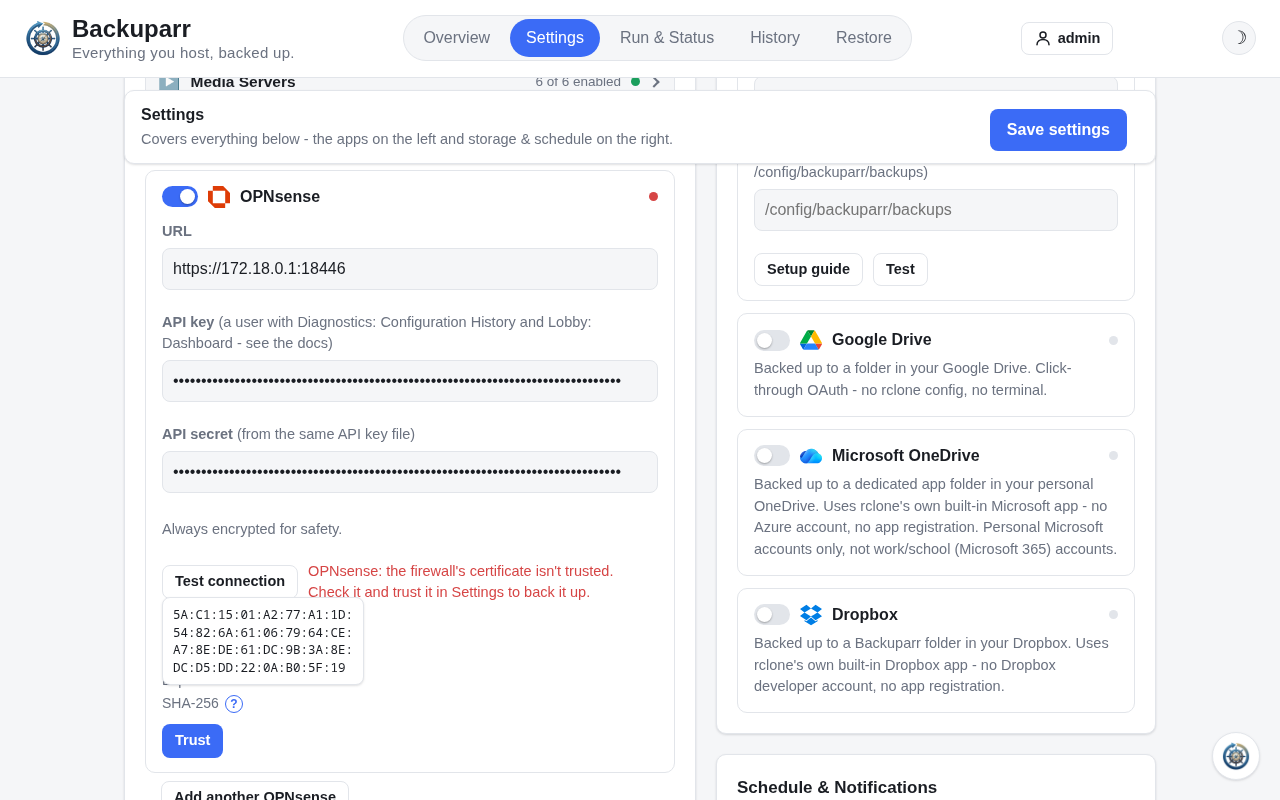
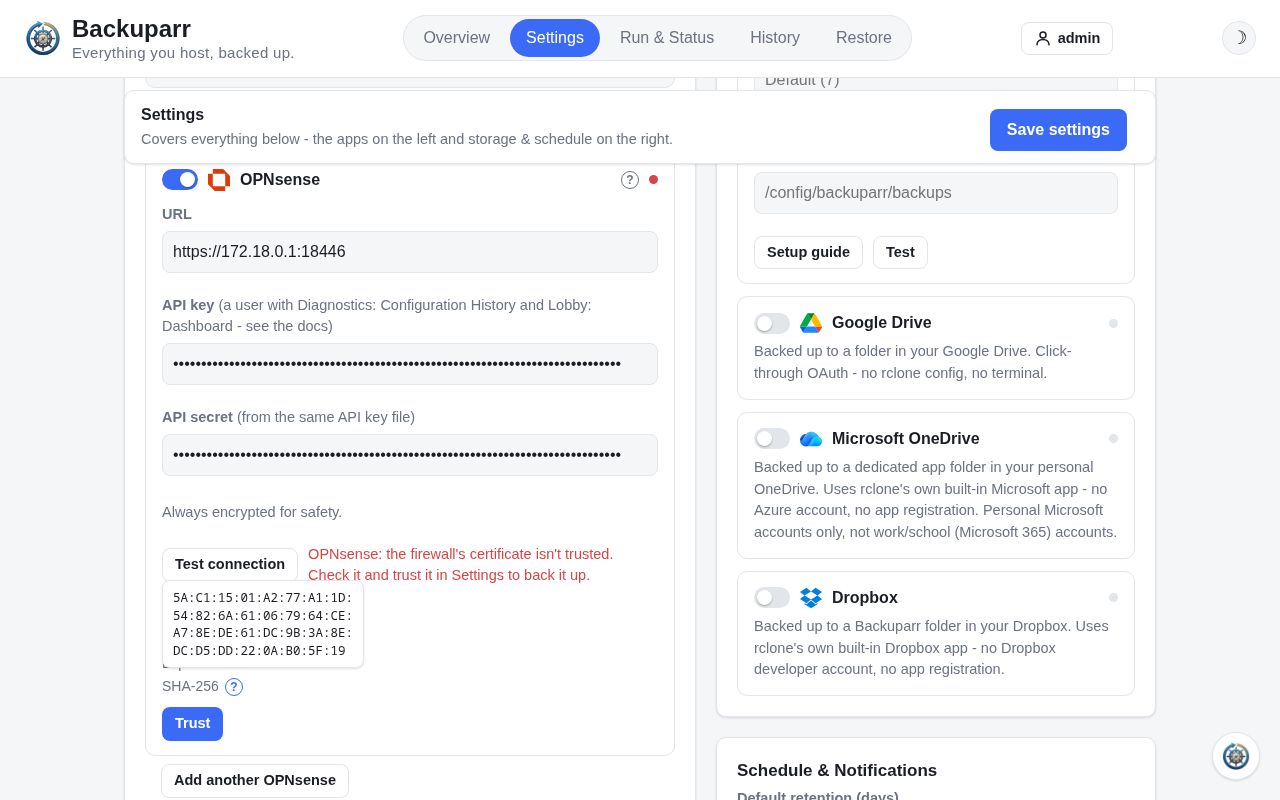
Setup help on every app card (#199)
Each app card's header in Settings gets a "?" that opens its app's page on
the docs site at "Setting it up", in a new tab (Radarr, Sonarr, Lidarr and
Prowlarr share the Servarr page; Backuparr's card links its own backup's
section). The Backuparr menu in the lower right gets a Documentation link
above Report a bug and Request a feature, and the Apps intro points at the
"?".

Every app page now has a "Setting it up" section: the URL, where the API
key or login comes from and the least access Backuparr needs, any folder to
mount. New text for Bazarr, Profilarr (a scoped key - System Read, Jobs
Read, Backups Read & write - that never expires, verified on 2.3.1),
Tautulli (Enable API), Tdarr, Whisparr and the Servarr page, and a page for
SABnzbd; the rest get the heading over the setup text they had. A test
checks every card's link points at a page with that section. The Settings
and OPNsense certificate screenshots are retaken with the "?".

diff --git a/webui/templates/index.html b/webui/templates/index.html
@@ -71,7 +71,7 @@
     <div class="grid">
       <div class="card apps-card">
         <h2>Apps</h2>
-        <p class="hint">Check the apps you want backed up - each one expands for its URL and API key (find the key in that app's Settings &gt; General).</p>
+        <p class="hint">Check the apps you want backed up - each one expands for its URL and key, and its ? opens its setup guide.</p>
         <div id="app-list">
           {# One collapsible section per category (#148); app.js opens them, counts the
              enabled apps and puts those first. #}
@@ -96,6 +96,7 @@
                   </label>
                   <img class="app-icon" src="{{ url_for('static', filename=self_app.icon) }}" alt="" width="22" height="22">
                   <h3>{{ self_app.label }}</h3>
+                  <a class="card-help" href="{{ self_app.help_url }}" target="_blank" rel="noopener noreferrer" title="Setup guide" aria-label="{{ self_app.label }} setup guide, in the docs">?</a>
                   <span class="status-dot" data-state="idle"></span>
                 </div>
                 <div class="app-card-body hidden">
@@ -145,6 +146,7 @@
                   </label>
                   <img class="app-icon" src="{{ url_for('static', filename='icons/' ~ m.icon) }}" alt="" width="22" height="22">
                   <h3>{{ m.label }}</h3>
+                  <a class="card-help" href="{{ m.help_url }}" target="_blank" rel="noopener noreferrer" title="Setup guide" aria-label="{{ m.label }} setup guide, in the docs">?</a>
                   {% if m.discoverable %}<span class="discovery-badge discovery-origin hidden">From Prowlarr</span>{% endif %}
                   <span class="status-dot" data-state="idle"></span>
                 </div>
@@ -576,13 +578,15 @@
 </footer>
 
 <div class="feedback" id="feedback">
-  <div class="feedback-menu hidden" id="feedback-menu" role="menu" aria-label="Feedback">
+  <div class="feedback-menu hidden" id="feedback-menu" role="menu" aria-label="Help and feedback">
+    <a class="feedback-link" role="menuitem" target="_blank" rel="noopener noreferrer"
+       href="https://rsaturns.github.io/backuparr/">Documentation</a>
     <a class="feedback-link" role="menuitem" target="_blank" rel="noopener noreferrer"
        href="https://github.com/rsaturns/backuparr/issues/new?template=bug_report.yml">Report a bug</a>
     <a class="feedback-link" role="menuitem" target="_blank" rel="noopener noreferrer"
        href="https://github.com/rsaturns/backuparr/issues/new?template=feature_request.yml">Request a feature</a>
   </div>
-  <button type="button" class="feedback-btn" id="feedback-btn" aria-label="Report a bug or request a feature"
+  <button type="button" class="feedback-btn" id="feedback-btn" aria-label="Documentation, or report a bug or request a feature"
           aria-haspopup="menu" aria-expanded="false" aria-controls="feedback-menu">
     <img src="{{ url_for('static', filename='logo.png') }}" alt="">
   </button>

diff --git a/webui/static/style.css b/webui/static/style.css
@@ -744,6 +744,26 @@ input:focus, select:focus, textarea:focus {
 .help-tip:hover,
 .help-tip:focus { color: var(--accent); border-color: var(--accent); outline: none; }
 
+/* A card's "?": its app's page in the docs, at "Setting it up". */
+.card-help {
+  display: inline-flex;
+  align-items: center;
+  justify-content: center;
+  flex: none;
+  width: 18px;
+  height: 18px;
+  border: 1px solid var(--text-muted);
+  border-radius: 50%;
+  color: var(--text-muted);
+  font-size: 12px;
+  font-weight: 600;
+  line-height: 1;
+  text-decoration: none;
+}
+
+.card-help:hover,
+.card-help:focus-visible { color: var(--accent); border-color: var(--accent); outline: none; }
+
 .help-tip:hover::after,
 .help-tip:focus::after {
   content: attr(data-tip);

diff --git a/tests/test_help_links.py b/tests/test_help_links.py
@@ -1,0 +1,81 @@
+"""Setup help on every card (#199): each app card's "?" opens its app's docs
+page at "Setting it up", and the Backuparr menu links the docs."""
+import os
+import re
+from html.parser import HTMLParser
+
+from config_store import APP_META, DOCS_URL, SELF_APP, SETUP_SECTION, docs_page
+
+ROOT = os.path.dirname(os.path.dirname(os.path.abspath(__file__)))
+DOCS = os.path.join(ROOT, "docs")
+
+
+def kramdown_id(heading):
+    """The id GitHub Pages' kramdown gives a heading: lower case, punctuation
+    dropped, spaces as hyphens."""
+    return re.sub(r"\s+", "-", re.sub(r"[^\w\s-]", "", heading.strip().lower()))
+
+
+def heading_ids(path):
+    with open(path) as f:
+        return {kramdown_id(m.group(1)) for m in re.finditer(r"^#{1,4} (.+)$", f.read(), re.M)}
+
+
+class Links(HTMLParser):
+    def __init__(self):
+        super().__init__()
+        self.current, self.help, self.menu = None, {}, []
+
+    def handle_starttag(self, tag, attrs):
+        a = dict(attrs)
+        if "app-card" in (a.get("class") or "").split():
+            self.current = a.get("data-app") or a.get("data-self-app")
+        if tag == "a" and a.get("class") == "card-help":
+            self.help[self.current] = a
+        if tag == "a" and a.get("class") == "feedback-link":
+            self.menu.append(a)
+
+
+def page(client):
+    parser = Links()
+    parser.feed(client.get("/").get_data(as_text=True))
+    return parser
+
+
+def test_every_app_links_a_docs_page_with_a_setting_it_up_section():
+    for meta in APP_META:
+        path = os.path.join(DOCS, "apps", f"{docs_page(meta['id'])}.md")
+        assert os.path.exists(path), meta["id"]
+        assert SETUP_SECTION in heading_ids(path), f"{path} has no 'Setting it up' section"
+        assert meta["help_url"] == f"{DOCS_URL}apps/{docs_page(meta['id'])}/#{SETUP_SECTION}"
+
+
+def test_radarr_sonarr_lidarr_and_prowlarr_share_a_page_and_whisparr_has_its_own():
+    assert {docs_page(a) for a in ("radarr", "sonarr", "lidarr", "prowlarr")} == {"servarr"}
+    assert docs_page("whisparr") == "whisparr" and docs_page("qnap") == "qnap"
+
+
+def test_backuparrs_card_links_its_own_backups_section():
+    page_name, anchor = SELF_APP["help_url"].removeprefix(DOCS_URL).split("/#")
+    assert anchor in heading_ids(os.path.join(DOCS, f"{page_name}.md"))
+
+
+def test_each_card_shows_its_help_link_opening_the_docs_in_a_new_tab(authed_client):
+    parsed = page(authed_client)
+    assert set(parsed.help) == {m["id"] for m in APP_META} | {SELF_APP["id"]}
+    for app_id, link in parsed.help.items():
+        meta = SELF_APP if app_id == SELF_APP["id"] else next(m for m in APP_META if m["id"] == app_id)
+        assert link["href"] == meta["help_url"]
+        assert link["target"] == "_blank" and link["rel"] == "noopener noreferrer"
+        assert link["aria-label"] == f"{meta['label']} setup guide, in the docs"
+
+
+def test_the_backuparr_menu_links_the_docs_first(authed_client):
+    links = page(authed_client).menu
+    assert [link["href"] for link in links][0] == DOCS_URL
+    assert len(links) == 3 and all(link["target"] == "_blank" for link in links)
+
+
+def test_the_help_url_reaches_the_ui_metadata(authed_client):
+    html = authed_client.get("/").get_data(as_text=True)
+    assert '"help_url": "https://rsaturns.github.io/backuparr/apps/qnap/#setting-it-up"' in html

diff --git a/tests/test_feedback_menu.py b/tests/test_feedback_menu.py
@@ -18,13 +18,14 @@ def feedback_links(html):
     return re.findall(r'<a [^>]*href="([^"]+)"[^>]*>([^<]+)</a>', menu, re.S)
 
 
-def test_menu_offers_bug_report_and_feature_request(index_html):
+def test_menu_offers_the_docs_then_bug_report_and_feature_request(index_html):
     labels = [label.strip() for _href, label in feedback_links(index_html)]
-    assert labels == ["Report a bug", "Request a feature"]
+    assert labels == ["Documentation", "Report a bug", "Request a feature"]
+    assert feedback_links(index_html)[0][0] == "https://rsaturns.github.io/backuparr/"  # #199
 
 
 def test_links_point_at_templates_that_exist(index_html):
-    links = feedback_links(index_html)
+    links = feedback_links(index_html)[1:]
     assert len(links) == 2
     for href, _label in links:
         assert href.startswith(REPO_PREFIX)
@@ -34,5 +35,5 @@ def test_links_point_at_templates_that_exist(index_html):
 
 def test_links_open_safely_in_a_new_tab(index_html):
     menu = re.search(r'id="feedback-menu".*?</div>', index_html, re.S).group(0)
-    assert menu.count('target="_blank"') == 2
-    assert menu.count('rel="noopener noreferrer"') == 2
+    assert menu.count('target="_blank"') == 3
+    assert menu.count('rel="noopener noreferrer"') == 3

diff --git a/config_store.py b/config_store.py
@@ -628,9 +628,24 @@ APP_META = [
 # its backups are always encrypted (self_backup.py).
 SELF_APP = {"id": "backuparr", "label": "Backuparr", "icon": "logo.png", "category": "server", "always_encrypted": True}
 
+# Each card's "?" opens its app's page on the docs site at "Setting it up".
+# Radarr, Sonarr, Lidarr and Prowlarr share one page; every other app's page
+# is named after its id. Backuparr's card links to its own backup's section.
+DOCS_URL = "https://rsaturns.github.io/backuparr/"
+SETUP_SECTION = "setting-it-up"
+_DOCS_PAGE = {"radarr": "servarr", "sonarr": "servarr", "lidarr": "servarr", "prowlarr": "servarr"}
+
+
+def docs_page(app_type):
+    """The docs page (docs/apps/<page>.md) an app's card links to."""
+    return _DOCS_PAGE.get(app_type, app_type)
+
+
+SELF_APP["help_url"] = f"{DOCS_URL}security/#backuparrs-own-backup"
 for _meta in APP_META:
     _meta["discoverable"] = _meta["id"] in DISCOVERABLE_APPS
     _meta["category"] = _APP_CATEGORY[_meta["id"]]
+    _meta["help_url"] = f"{DOCS_URL}apps/{docs_page(_meta['id'])}/#{SETUP_SECTION}"
 
 DEST_NAMES = ["local", "gdrive", "onedrive", "dropbox"]
 

diff --git a/CHANGELOG.md b/CHANGELOG.md
@@ -7,6 +7,7 @@ format is based on [Keep a Changelog](https://keepachangelog.com/en/1.1.0/).
 
 ### Added
 
+- A ? on every app's card in Settings opens its page in the docs, at Setting it up: where the app's API key or login comes from, the least access Backuparr needs and any folder to mount. Every app's page now has that section, SABnzbd has a page of its own, and the Backuparr menu in the lower right links the docs. (#199). See https://rsaturns.github.io/backuparr/apps/
 - QNAP QuTS hero (h5.2 and newer) backups of its system configuration file - its settings (general settings, users and groups, shared folder settings and privileges, network, the list of installed apps), not the data in its shared folders - with the Control Panel's own export, signed in as an administrator or an account with the System Management role. An account with 2-step verification gives a code once on Test connection, then QuTS hero remembers the sign-in. Always encrypted, restored by hand in the Control Panel with the Restore tab's download and steps; a self-signed certificate is trusted on the card (#169). See https://rsaturns.github.io/backuparr/apps/qnap/
 - Synology DSM backups (DSM 7 and 6.2) of DSM's own Configuration Backup - its settings (users, groups, shared folder settings and permissions, file services, network, Task Scheduler), not the data in its shared folders - over the Control Panel's Web API calls, signed in as an administrator. An account with 2-factor sign-in gives a code once on Test connection, then DSM trusts Backuparr as a device. Always encrypted, restored by hand in DSM with the Restore tab's download and steps; a self-signed certificate is trusted on the card (#168). See https://rsaturns.github.io/backuparr/apps/synology/
 - Self-hosted Bitwarden backups from a mounted folder, always encrypted: a standard install's bwdata folder with its newest nightly database backup (no logs or live database), or Bitwarden lite's newest own backup (lite 2026.10.1 and newer, any database); Test connection tells which from the folder, a self-signed certificate can be trusted on the card, and restores are by hand with the steps on the Restore tab (#194). See https://rsaturns.github.io/backuparr/apps/bitwarden/

diff --git a/docs/apps/index.md b/docs/apps/index.md
@@ -13,7 +13,7 @@ has_toc: false
 | Profilarr | The app's own backup (`POST /api/v1/backups`), downloaded and then deleted on the server | By hand: the Restore tab gives the download and the steps - see the [Profilarr note](profilarr.md) |
 | Bazarr | The app's own backup (`POST /api/system/backups`), downloaded and then deleted on the server | Written into Bazarr's mounted backup folder, then restored over the API. Downloads depend on Bazarr's web auth - see the [Bazarr note](bazarr.md) |
 | Tdarr | Every internal database collection, read over `/api/v2/cruddb` | Destructive: each collection is wiped, then refilled - see the [Tdarr note](tdarr.md) |
-| SABnzbd | `get_config` over the API. SABnzbd masks every password as `**********` | Settings and Usenet servers over `set_config`; you're asked for each server's password. Categories, RSS feeds and sorters aren't restored |
+| SABnzbd | `get_config` over the API. SABnzbd masks every password as `**********` - see the [SABnzbd note](sabnzbd.md) | Settings and Usenet servers over `set_config`; you're asked for each server's password. Categories, RSS feeds and sorters aren't restored |
 | NZBGet | Every setting, real passwords included, over JSON-RPC `loadconfig` | `saveconfig`, then NZBGet reloads - see the [NZBGet note](nzbget.md) |
 | Tautulli | `download_database` and `download_config` | Config only, via `import_config` - see the [Tautulli note](tautulli.md) |
 | Jellyfin (10.11+) | Jellyfin's own backup (`POST /Backup/Create`), picked up from its mounted backups folder | Over `POST /Backup/Restore`; Jellyfin restarts - see the [Jellyfin note](jellyfin.md) |

diff --git a/docs/apps/servarr.md b/docs/apps/servarr.md
@@ -1,7 +1,7 @@
 ---
 title: Radarr, Sonarr and Lidarr
 parent: Apps
-nav_order: 15
+nav_order: 16
 ---
 
 # Radarr, Sonarr, Lidarr, Whisparr and Prowlarr
@@ -11,14 +11,26 @@ from the app's web UI, which doesn't accept the API key. If the app asks every
 address to log in, **Test connection** says so and shows **Username** and
 **Password** on the card. Restores go through the API and work either way.
 
+## Setting it up
+
+On the app's card, enter its URL - for example `http://radarr:7878` (Sonarr
+uses port 8989, Lidarr 8686 and Prowlarr 9696) - and its API key, from the
+app's **Settings > General > Security > API Key**. Click **Test connection**.
+
+Using Prowlarr? Fill in its card first and click **Discover services**: it
+fills in the cards of the apps Prowlarr knows, API keys included - see
+[Prowlarr discovery](../settings.md#prowlarr-discovery). Whisparr has its own
+page: [Whisparr](whisparr.md).
+
+If the app asks every address to log in, Test connection says so and shows
+**Username** and **Password**: pick one of the two options below.
+
 Each app's own guide to its backups and restores:
 [Radarr](https://wiki.servarr.com/radarr/faq#how-do-i-backuprestore-radarr),
 [Sonarr](https://wiki.servarr.com/sonarr/faq#how-do-i-backuprestore-my-sonarr),
 [Lidarr](https://wiki.servarr.com/lidarr/system#backup),
 [Whisparr](https://wiki.servarr.com/whisparr/faq#how-do-i-backuprestore-whisparr) and
 [Prowlarr](https://wiki.servarr.com/prowlarr/faq#how-do-i-backuprestore-prowlarr).
-
-Pick one of the two options below.
 
 ## Option 1: enter the app's login
 

diff --git a/docs/apps/sabnzbd.md b/docs/apps/sabnzbd.md
@@ -1,0 +1,30 @@
+---
+title: SABnzbd
+parent: Apps
+nav_order: 15
+---
+
+# SABnzbd
+
+## Setting it up
+
+On SABnzbd's card, enter its URL - for example `http://sabnzbd:8080` - and
+its **API Key**, from SABnzbd's **Config > General > Security** (not the NZB
+Key, which can only add downloads). Click **Test connection**. SABnzbd's guide
+to these settings: [General](https://sabnzbd.org/wiki/configuration/5.1/general).
+
+Backuparr reads and writes SABnzbd's settings over its API. If Backuparr
+reaches SABnzbd from outside SABnzbd's local network, **External internet
+access** on the same page must allow the full API.
+
+## Backups and restores
+
+- **What's in the backup:** every setting SABnzbd's API gives (`get_config`):
+  folders, Usenet servers, categories, RSS feeds, sorters, schedules and
+  notifications. SABnzbd hides every password in it as `**********`, so the
+  Usenet servers' passwords aren't in the backup. The queue and history
+  aren't either.
+- **Restore** writes the settings back over the API and asks for each Usenet
+  server's password; leave one blank to set it in SABnzbd later. Categories,
+  RSS feeds and sorters aren't restored - set them up again in SABnzbd - and
+  SABnzbd's API key and NZB key stay as they are.

diff --git a/docs/apps/tdarr.md b/docs/apps/tdarr.md
@@ -1,16 +1,23 @@
 ---
 title: Tdarr
 parent: Apps
-nav_order: 19
+nav_order: 20
 ---
 
 # Tdarr
 
-Tdarr 2 and 3 are both supported. Use the server's port (8266), not the web UI's.
+## Setting it up
 
-- **API key:** needed when Tdarr's authentication is on - the default from
-  Tdarr 3. Create one under **Tools > API Keys**. Tdarr 3 asks for an admin
-  account first.
+On Tdarr's card, enter the URL of Tdarr's **server** - for example
+`http://192.168.1.10:8266` - not its web UI's port. Tdarr 2 and 3 are both
+supported.
+
+When Tdarr's authentication is on - the default from Tdarr 3 - the card also
+needs an API key: create one under **Tools > API Keys** (Tdarr 3 asks for an
+admin account first). Click **Test connection**.
+
+## Good to know
+
 - **Restore** wipes each of Tdarr's database collections before refilling it,
   so you're asked to confirm first. The backup must come from the same Tdarr
   version, so a Tdarr 3 backup doesn't go onto Tdarr 2.

diff --git a/docs/apps/lazylibrarian.md b/docs/apps/lazylibrarian.md
@@ -6,11 +6,18 @@ nav_order: 7
 
 # LazyLibrarian
 
-Use the **full-access** API key (Config > Interface > API). Mount the folder
-LazyLibrarian has at `/config` into Backuparr and set it as the **Data
-folder**. It's LazyLibrarian's [datadir](https://lazylibrarian.gitlab.io/config_commandline/#-datadir),
+## Setting it up
+
+Mount the folder LazyLibrarian has at `/config` into Backuparr. It's
+LazyLibrarian's [datadir](https://lazylibrarian.gitlab.io/config_commandline/#-datadir),
 which holds its database and config; LazyLibrarian's docs have no page on
 backups.
+
+On LazyLibrarian's card, enter its URL - for example
+`http://lazylibrarian:5299` - the **full-access** API key (Config > Interface
+> API), and that folder as the **Data folder**. Click **Test connection**.
+
+## Backups and restores
 
 - **What's in the backup:** LazyLibrarian's own backup - its database,
   `config.ini`, and any `dicts.json`, `genres.json` and file/login templates.

diff --git a/docs/apps/whisparr.md b/docs/apps/whisparr.md
@@ -1,16 +1,24 @@
 ---
 title: Whisparr
 parent: Apps
-nav_order: 23
+nav_order: 24
 ---
 
 # Whisparr
+
+## Setting it up
+
+On Whisparr's card, enter its URL - for example `http://whisparr:6969` - and
+its API key, from Whisparr's **Settings > General > Security > API Key**.
+Click **Test connection**.
 
 Whisparr v2 and v3 are both supported. To back up both, add the second with
 **Add another Whisparr**. Like Radarr and Sonarr, if it asks every address to
 log in, it needs its login on the card or **Disabled for Local Addresses** -
 see the [Radarr, Sonarr and Lidarr note](servarr.md). Whisparr's own guide:
 [How do I Backup/Restore Whisparr?](https://wiki.servarr.com/whisparr/faq#how-do-i-backuprestore-whisparr)
+
+## Good to know
 
 - **v3 restores:** Whisparr v3's own restore skips the database in its backups
   (they hold `whisparr3.db`, but it only accepts `whisparr.db`) and still
